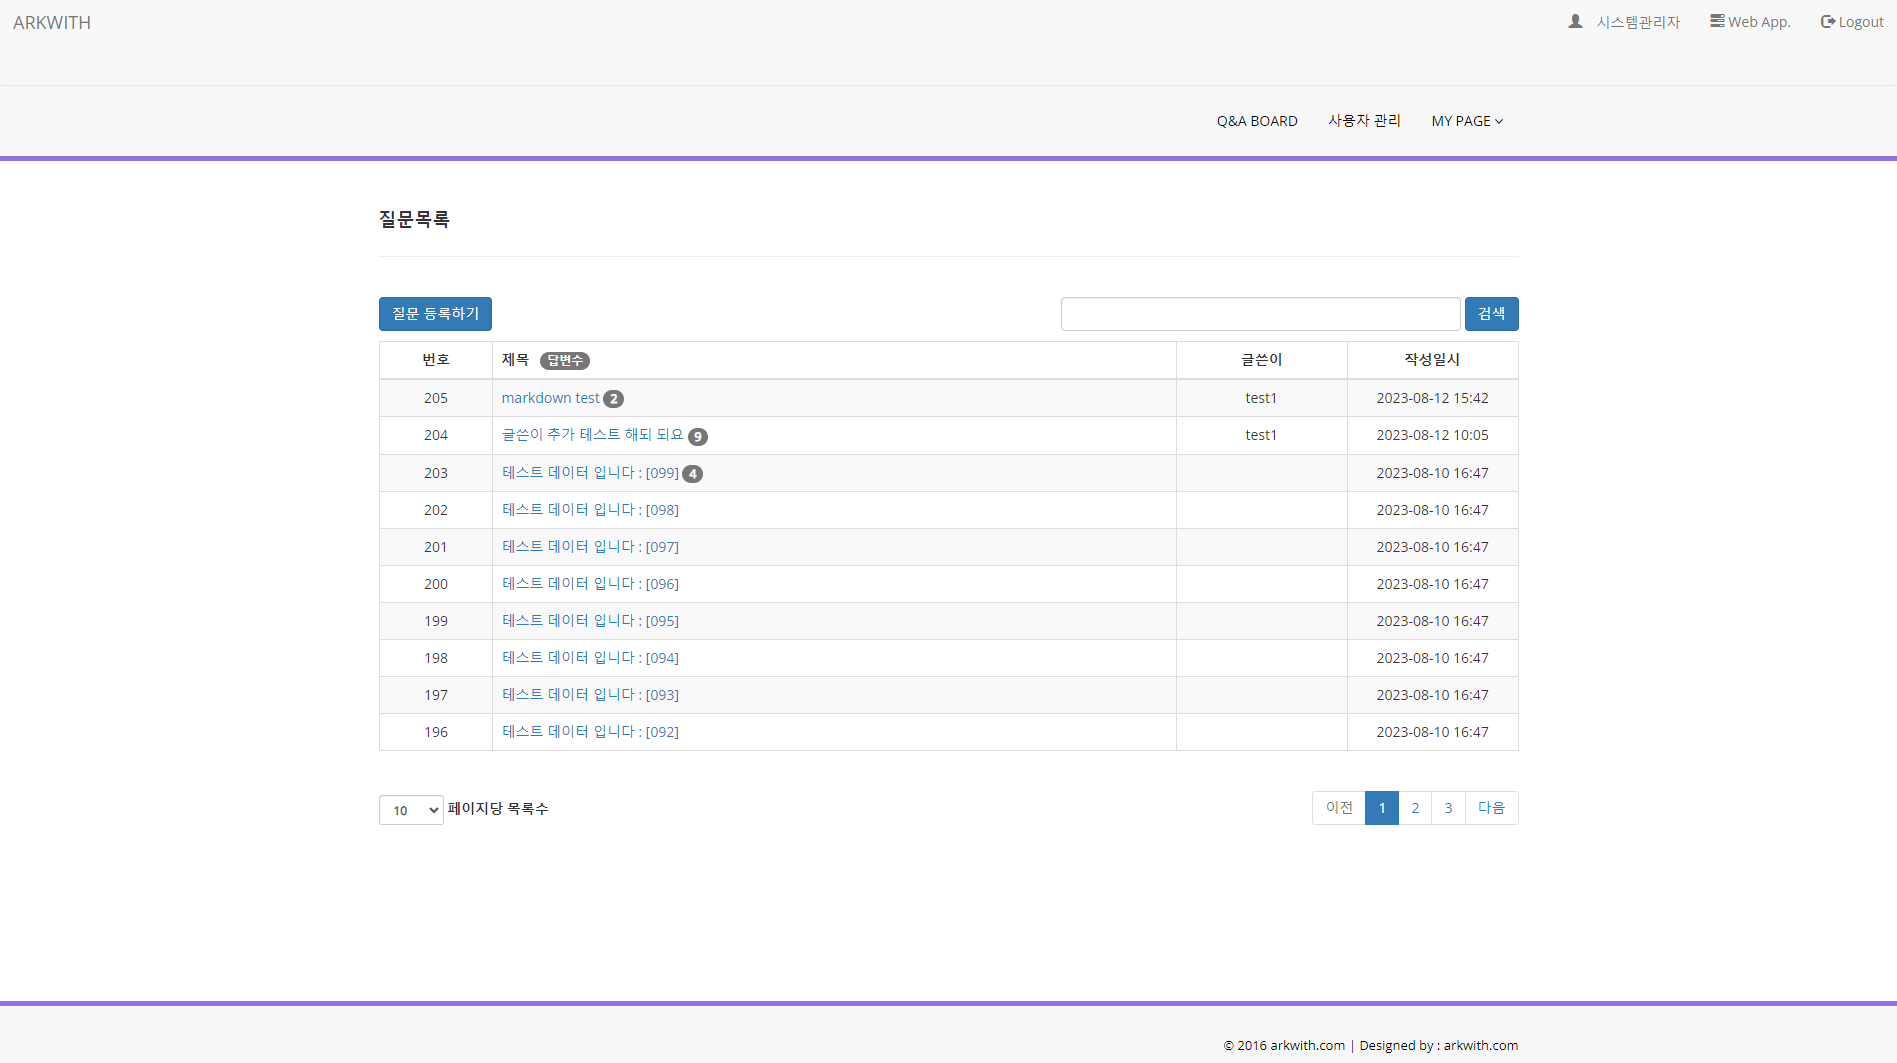
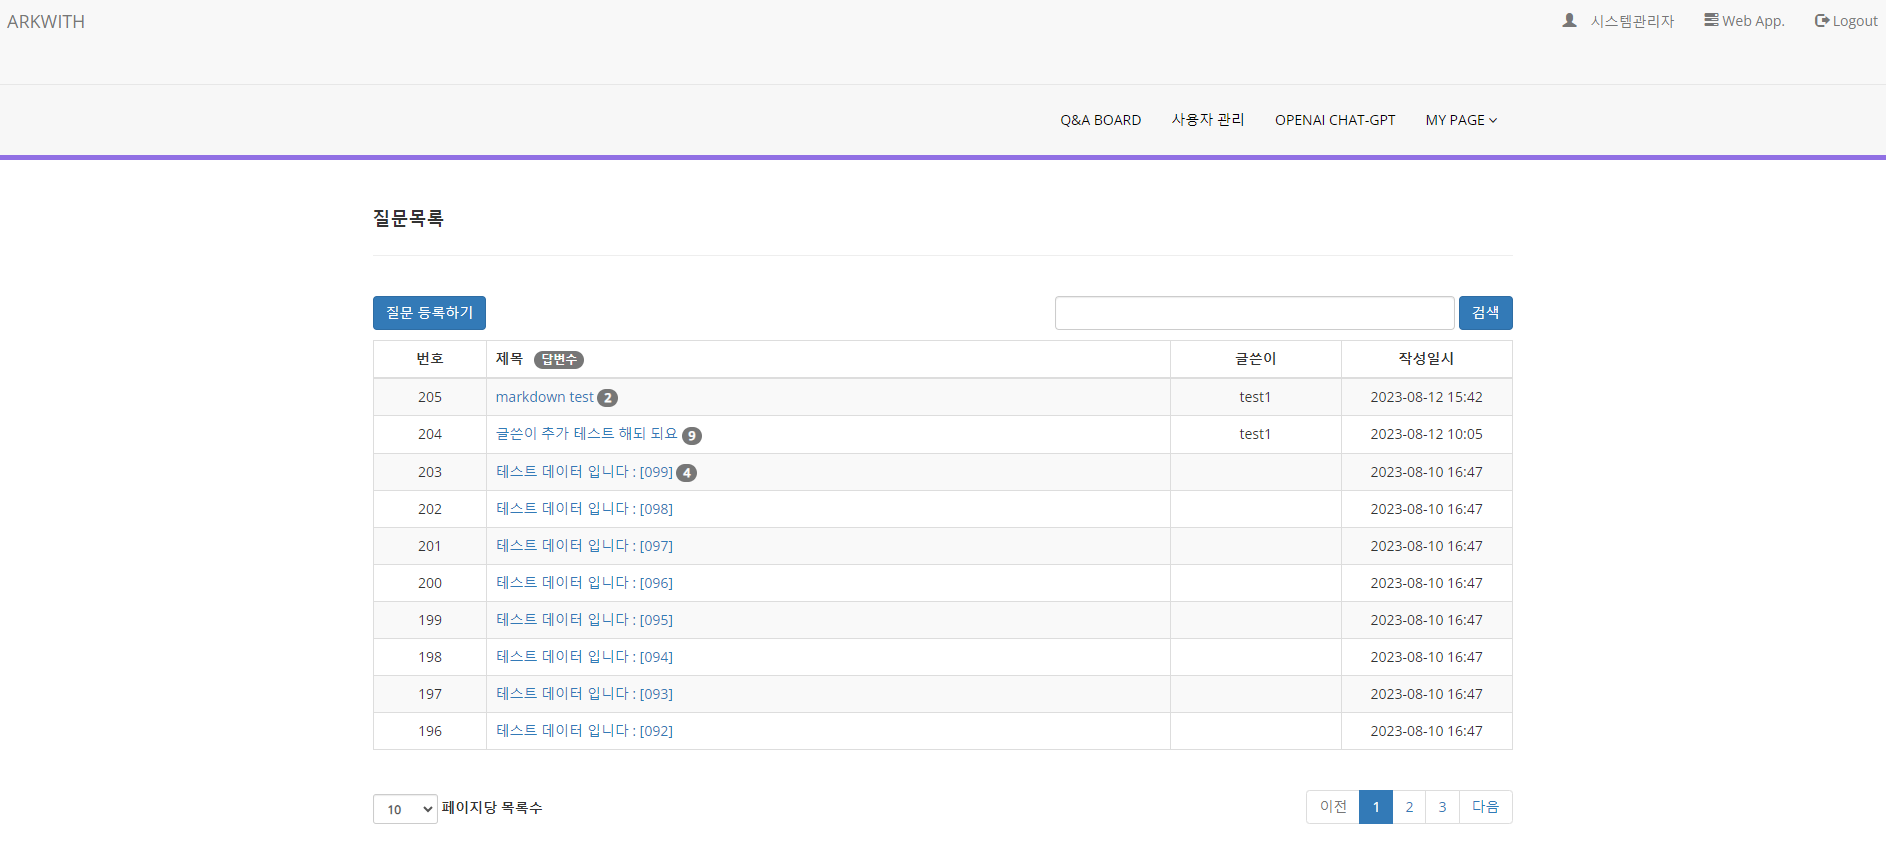
modify_chatgpt

diff --git a/src/main/resources/templates/pages/user/login.html b/src/main/resources/templates/pages/user/login.html
@@ -78,7 +78,7 @@
                                             <div class="google-icon-wrapper">
                                               <img class="google-icon" src="https://upload.wikimedia.org/wikipedia/commons/5/53/Google_%22G%22_Logo.svg"/>
                                             </div>
-                                            <p class="btn-text"><b>Sign in with google</b></p>
+                                            <p class="btn-text"><b>Login in with google</b></p>
                                         </a>
                                     </div>
                                     <br/>
@@ -88,7 +88,7 @@
                                             <div class="naver-icon-wrapper">
                                               <img class="naver-icon" th:src="@{/assets/img/naver.ico}"/>
                                             </div>
-                                            <p class="btn-text"><b>네비버 로그인     </b></p>
+                                            <p class="btn-text"><b>네이버로 로그인</b></p>
                                         </a>
                                     </div>
                                     </div>

diff --git a/src/main/resources/templates/fragments/menu.html b/src/main/resources/templates/fragments/menu.html
@@ -9,11 +9,11 @@
                 <div class="col-md-12">
                     <div class="navbar-collapse collapse ">
                         <ul id="menu-top" class="nav navbar-nav navbar-right">
-                            <li><a th:href="@{/chatgpt/chat}" >OpenAI Chat-GPT </a></li>
                             <li><a th:href="@{/question/list}" >Q&A Board </a></li>
                             <li th:if="${#authentication.getPrincipal().getRoleKey() == 'ROLE_ADMIN'}">
                                 <a th:href="@{/user/list}">사용자 관리</a>
                             </li>
+                            <li><a th:href="@{/chatgpt/chat}" >OpenAI Chat-GPT </a></li>
                             <li>
                                 <a href="#" class="dropdown-toggle" id="ddlmenuItem" data-toggle="dropdown">My Page <i class="fa fa-angle-down"></i></a>
                                 <ul class="dropdown-menu" role="menu" aria-labelledby="ddlmenuItem">

diff --git a/src/main/resources/templates/pages/index.html b/src/main/resources/templates/pages/index.html
@@ -3,7 +3,7 @@
     xmlns:layout="http://www.ultraq.net.nz/thymeleaf/layout" layout:decorate="~{layouts/default}">
 
 <head>
-    <title>Arkwith Home Page | Q & A Board | 사용자 관리 | My Page | Login | Sign Up</title>
+    <title>Arkwith Home Page | Q & A Board | 사용자 관리 | Chat-GPT | My Page | Login | Sign Up</title>
     <meta name="description" content="풀스택 개발을 넘어 기획 및 요구정의, 설계, 개발, 운영 전체 프로그램 개발 사이클을 지원하는 1인법인 프리랜서 개발자, 개발 기술과 관련되어 공개된 기술 강의 내용을 공유하려고 합니다.">
     <meta name="keyword" content="프리랜서, 개발자, ChatGPT, Spring Boot, Python, Node.js, React, React Native">
     <!-- index.html 고유 CSS 추가 -->

diff --git a/src/main/resources/static/assets/css/style.css b/src/main/resources/static/assets/css/style.css
@@ -301,14 +301,14 @@ height: 60px;
     }
     .naver-icon {
       position: absolute;
-      margin-top: 11px;
-      margin-left: 11px;
-      width: 18px;
-      height: 18px;
+      margin-top: 5px;
+      margin-left: 6px;
+      width: 30px;
+      height: 30px;
     }
     .btn-text {
       float: right;
-      margin: 7px 37px 4px 67px;
+      margin: 5px 38px 7px 8px;
       color: var(--white);
       font-size: 14px;
       letter-spacing: 0.2px;

diff --git a/README.md b/README.md
@@ -43,8 +43,9 @@
 >
 
 > **Q&A BOARD 목록조회, 질문하기, 질문수정/삭제**
+>![](images/question_list.png)
 >
->
+
 > **Q&A BOARD 검색**
 >
 >
@@ -54,7 +55,11 @@
 > **Q&A BOARD 질문별 답변조회, 딥변하기, 답변수정/삭제**
 >
 >
-> **MY PAGE - 니의가입정보**
+> **OpenAI Chat-GPT - AI채팅체험**
+>![](images/openai_chatgpt.png)
+>
+
+> **MY PAGE - 나의가입정보**
 >
 >
 > **MY PAGE - 비밀번호변경**
